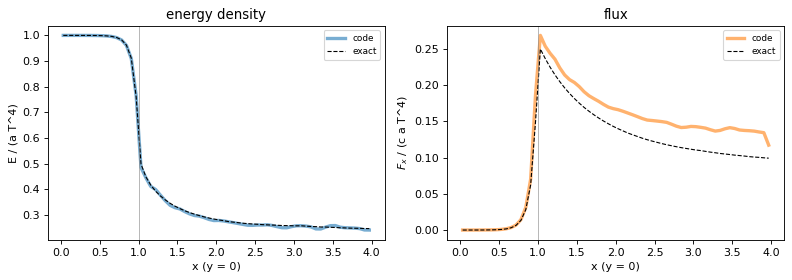
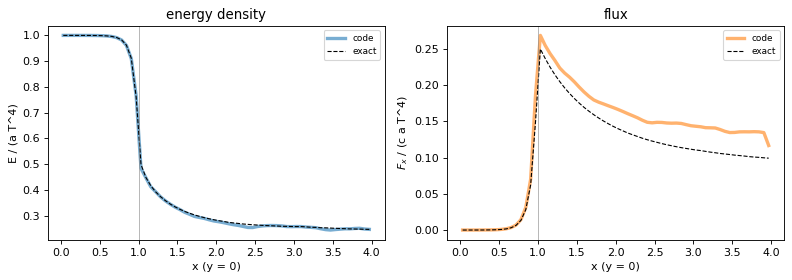
tests/vet_clean: the vet_sc decks drop vet_gd_rotate_every (a no-rotation key on vet_sc)
nlte_eps1e-1 / -4, idort_shadow, idort_shadow_gl and idort_cylinder named
vet_gd_rotate_every = 10. On vet_sc this key does not rotate the set; it only switches the
default rotation off. Without it the decks run with the default rotation of the production
decks (vet_rotate_avg = 4). nlte and shadow are unchanged. idort_cylinder runs past the first
rotation, so its references move: E_in 5.3e-4, E_out 0.0111, F_out 0.203 (they were 5.2e-4,
0.013, 0.205 with the fixed set). idort.ipynb was re-executed and idort_cylinder.png
re-exported.

diff --git a/tests/vet_clean/README.md b/tests/vet_clean/README.md
@@ -62,7 +62,7 @@ fast-relaxation thermal equilibrium is `thermal_eq`). L1 is sum |q - q_exact| / 
 | `idort_beams` | `idort_beams` | two beams crossing in vacuum at +-45 deg (256 x 64, x2 periodic, ring of 4 rays): E vs the exact straight beams (cell averages); `lum_top` the energy of the row 3 cells below x1max vs exact | L1 and `lum_top` within 5 % of 0.777 and 1.785 (regression references, see below) |
 | `idort_beams_mb` | `idort_beams` | the beams on 4 MeshBlocks vs 1: along x2 in tile mode (`layout_tile = 16`), along x1 in block mode | tile x2: identical; block x1: largest difference <= 1e-8 |
 | `idort_shadow`, `idort_shadow_gl` | `idort_shadow*` | two beams at +-15 deg past an opaque ellipse (128 x 64; ring of 12 rays, or the general 8 x 32 set with the beams snapped to its rays): E vs the exact attenuated beams | L1 within 5 % of 0.0138 and 0.0126 |
-| `idort_cylinder` | `idort_cylinder` | homogeneous emitting cylinder (rho kappa = 10, a T^4 = 1) in vacuum, 128 x 128: E inside and outside and F_x outside along y = 0 vs the exact transport solution (`ref/idort_cylinder_exact.npz`) | each L1 within 5 % of 5.2e-4, 0.013, 0.205 |
+| `idort_cylinder` | `idort_cylinder` | homogeneous emitting cylinder (rho kappa = 10, a T^4 = 1) in vacuum, 128 x 128: E inside and outside and F_x outside along y = 0 vs the exact transport solution (`ref/idort_cylinder_exact.npz`) | each L1 within 5 % of 5.3e-4, 0.011, 0.203 |
 | `idort_radshock_m2`, `_m5` | `idort_radshock_m*` | Lowrie & Edwards (2008) radiative shocks, Mach 2 and 5, 256 cells, started from the semi-analytic profile (`ref/idort_radshock_m*.txt`, its absolute path set by `run_tests.py`) with the Eddington closure of the diffusion-theory reference (`clean_closure = eddington`): rho, v, T_gas, T_rad at t = 2e-10 s, no shift | each L1 within 5 % of the reference (2.5e-4 ... 2.2e-3) |
 | `idort_thermal_eq2` | `idort_thermal_eq2` | hot gas cooling into radiation (Jiang 2021 sec. 4.1), dt = 5 to 1e5 relaxation times: T(t) vs the exact ODE | max error within 5 % of 2.0e-3; total-energy drift <= 1e-13 |
 
@@ -75,7 +75,7 @@ Gauss polar angles x 4096 azimuths and the cylinder's periodic images. Notes:
   density at this resolution (`lum_top`; 1.4 x at twice the resolution): the cap of the
   streaming share at the beam edges. This dominates L1 (0.78); both are regression
   references.
-- **Cylinder flux.** E outside the cylinder is within 1.3 % of exact transport, the flux
+- **Cylinder flux.** E outside the cylinder is within 1.1 % of exact transport, the flux
   `F_out` 20 % above it (the moment flux in the vacuum around the source); recorded as a
   regression reference, an open item.
 - **Shocks.** With the v20.3 production keys of the method paper's bench table the L1 values

diff --git a/docs/vet_clean/figures/FIGURES.md b/docs/vet_clean/figures/FIGURES.md
@@ -29,7 +29,7 @@ what the plot shows and the pass criterion, in one line.
 | star3d_cs_slices.png | docs/vet_clean/notebooks/star3d.ipynb#4 | star3d_cs | Cubed-sphere deck at its last dump: the same in the planes z = 0 and y = 0. |
 | idort_beams.png | tests/vet_clean/notebooks/idort.ipynb#1 | idort_beams | Two beams crossing in vacuum at ±45 deg: E of the run and the exact straight beams (images) and cuts across the beams at four heights (dashed: exact). The beams stay 1-2 cells wide; an oblique sub-cell beam carries about 1.8 x the exact energy. Pass: L1 of E and the beam energy within 5 % of 0.777 and 1.785. |
 | idort_shadow.png | tests/vet_clean/notebooks/idort.ipynb#2 | idort_shadow, idort_shadow_gl | Two beams past an opaque ellipse: log E of the ring run (left) and cuts behind the ellipse for the ring and the general 8 x 32 ray set against the exact attenuated beams (right). Pass: L1 within 5 % of 0.0138 and 0.0126. |
-| idort_cylinder.png | tests/vet_clean/notebooks/idort.ipynb#3 | idort_cylinder | Homogeneous emitting cylinder (r < 1): E and F_x/c along y = 0 against exact transport. Pass: L1 of E inside, E outside and F outside within 5 % of 5.2e-4, 0.013, 0.205. |
+| idort_cylinder.png | tests/vet_clean/notebooks/idort.ipynb#3 | idort_cylinder | Homogeneous emitting cylinder (r < 1): E and F_x/c along y = 0 against exact transport. Pass: L1 of E inside, E outside and F outside within 5 % of 5.3e-4, 0.011, 0.203. |
 | idort_radshock.png | tests/vet_clean/notebooks/idort.ipynb#4 | idort_radshock_m2, idort_radshock_m5 | Lowrie & Edwards radiative shocks at Mach 2 and 5: density and gas and radiation temperatures against the semi-analytic profiles (dashed), no shift. Pass: L1 of rho, v, T_gas, T_rad each within 5 % of the reference. |
 | idort_thermal_eq2.png | tests/vet_clean/notebooks/idort.ipynb#5 | idort_thermal_eq2 | Hot gas cooling into radiation at dt = 5 to 1e5 relaxation times: T(t) against the exact ODE and the relative error. Pass: error within 5 % of 2.0e-3, energy drift below 1e-13. |
 | radshock.png | tests/vet_clean/notebooks/radiation.ipynb#1 | radshock, radshock_m5 | Lowrie & Edwards radiative shocks at Mach 2 (left, subcritical) and Mach 5 (right, supercritical) after 2e-10 s on 256 cells: gas and radiation temperature and density (points) against the semi-analytic profile (lines). Pass: L1 of rho and T_rad within 5 % of the reference values (about 0.5 % and 1 %), every L1 below 1-2 %, no `CLEAN WARNING`. |

diff --git a/docs/vet_clean/SCHEME.md b/docs/vet_clean/SCHEME.md
@@ -272,11 +272,11 @@ behind an opaque cloud leaves a sharp shadow, and the field around an emitting c
 follows exact transport (an M1 closure merges crossing beams and fills shadows). Each beam
 stays straight, at its angle and 1-2 cells wide, but an oblique beam narrower than a cell
 carries about 1.8 x the exact energy density (1.4 x at twice the resolution; the cap of the
-streaming share at its edges). Around the cylinder E is within 1.3 % of exact transport and
+streaming share at its edges). Around the cylinder E is within 1.1 % of exact transport and
 the moment flux in the vacuum about 20 % above it.
 
 Test: `idort_beams` (L1 of E and the beam energy within 5 % of 0.777 and 1.785), `idort_shadow`, `idort_shadow_gl` (L1
-0.014 and 0.013), `idort_cylinder` (E outside 0.013), `nlte_eps1e-1`, `nlte_eps1e-4` (J
+0.014 and 0.013), `idort_cylinder` (E outside 0.011), `nlte_eps1e-1`, `nlte_eps1e-4` (J
 against exact transport, L1 1e-4 and 1.3e-3); `idort_beams_mb` (4 MeshBlocks: identical in
 tile mode); `shadow` (a clump lit by an isotropic bath: 0.6 % of the unshadowed radiation is
 left in the geometric umbra behind it, bound 2 %; regions whose sight lines miss the clump
